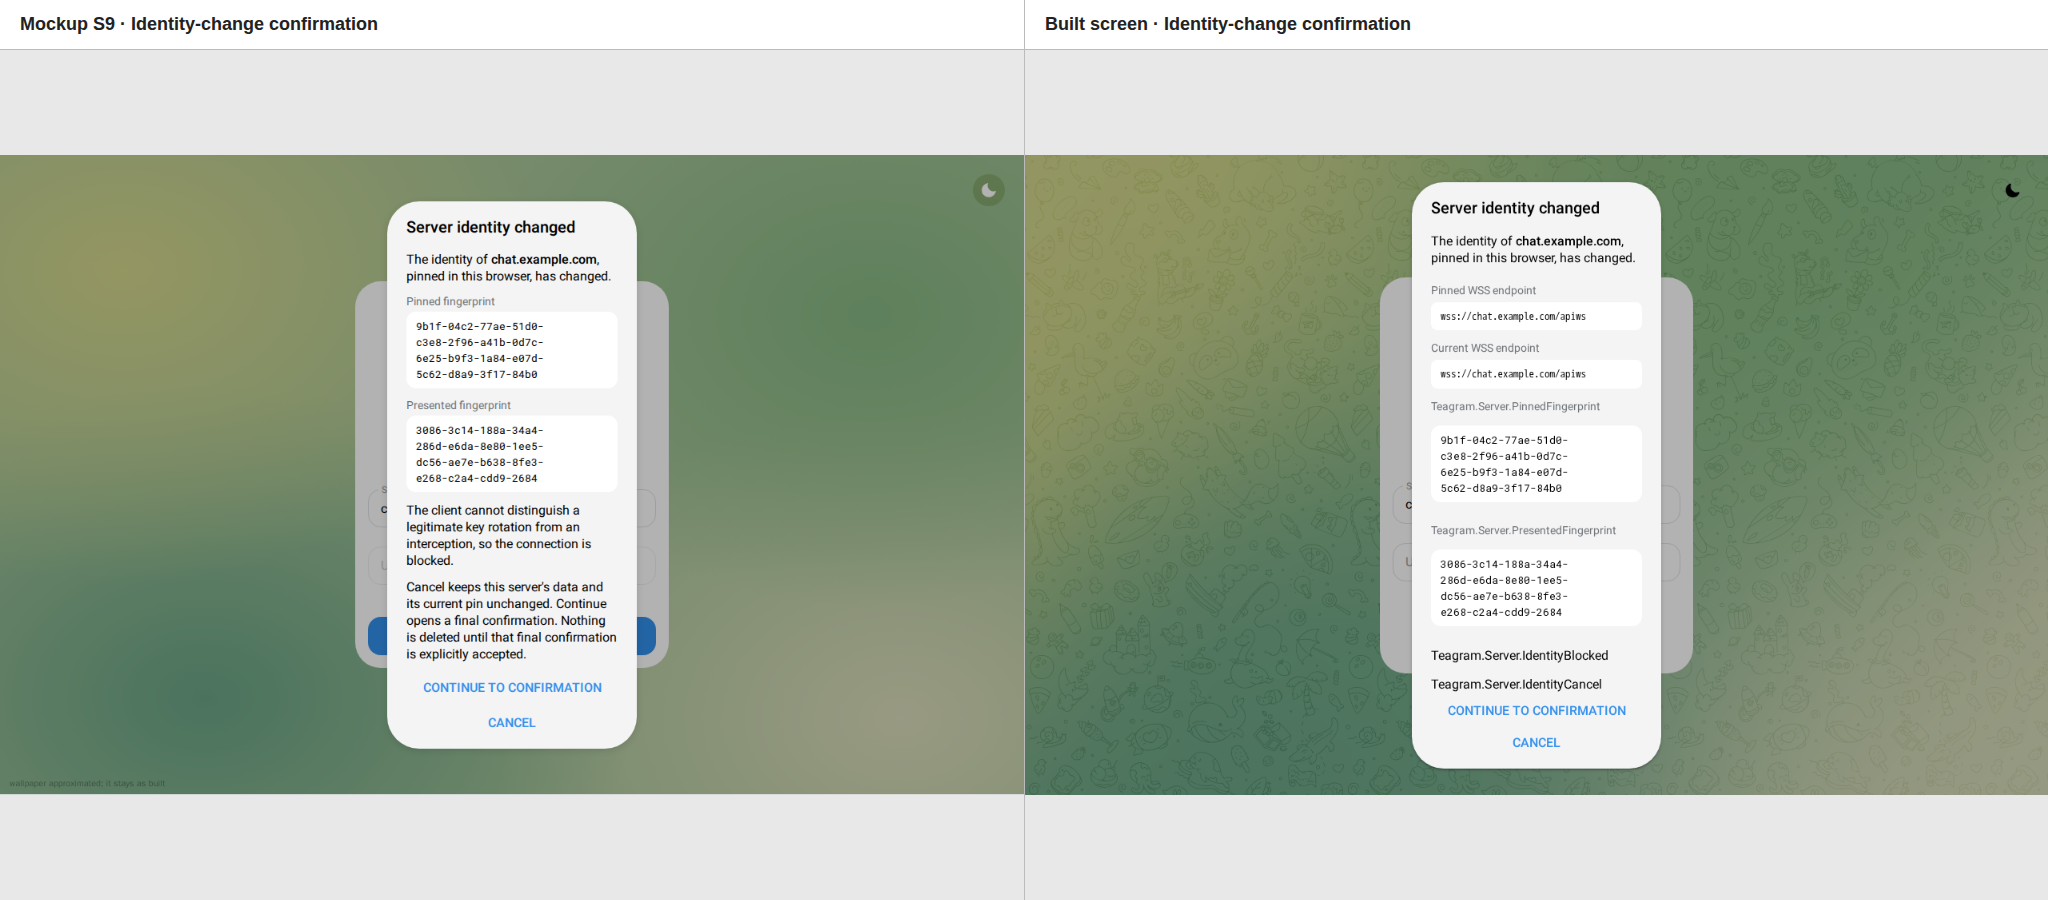
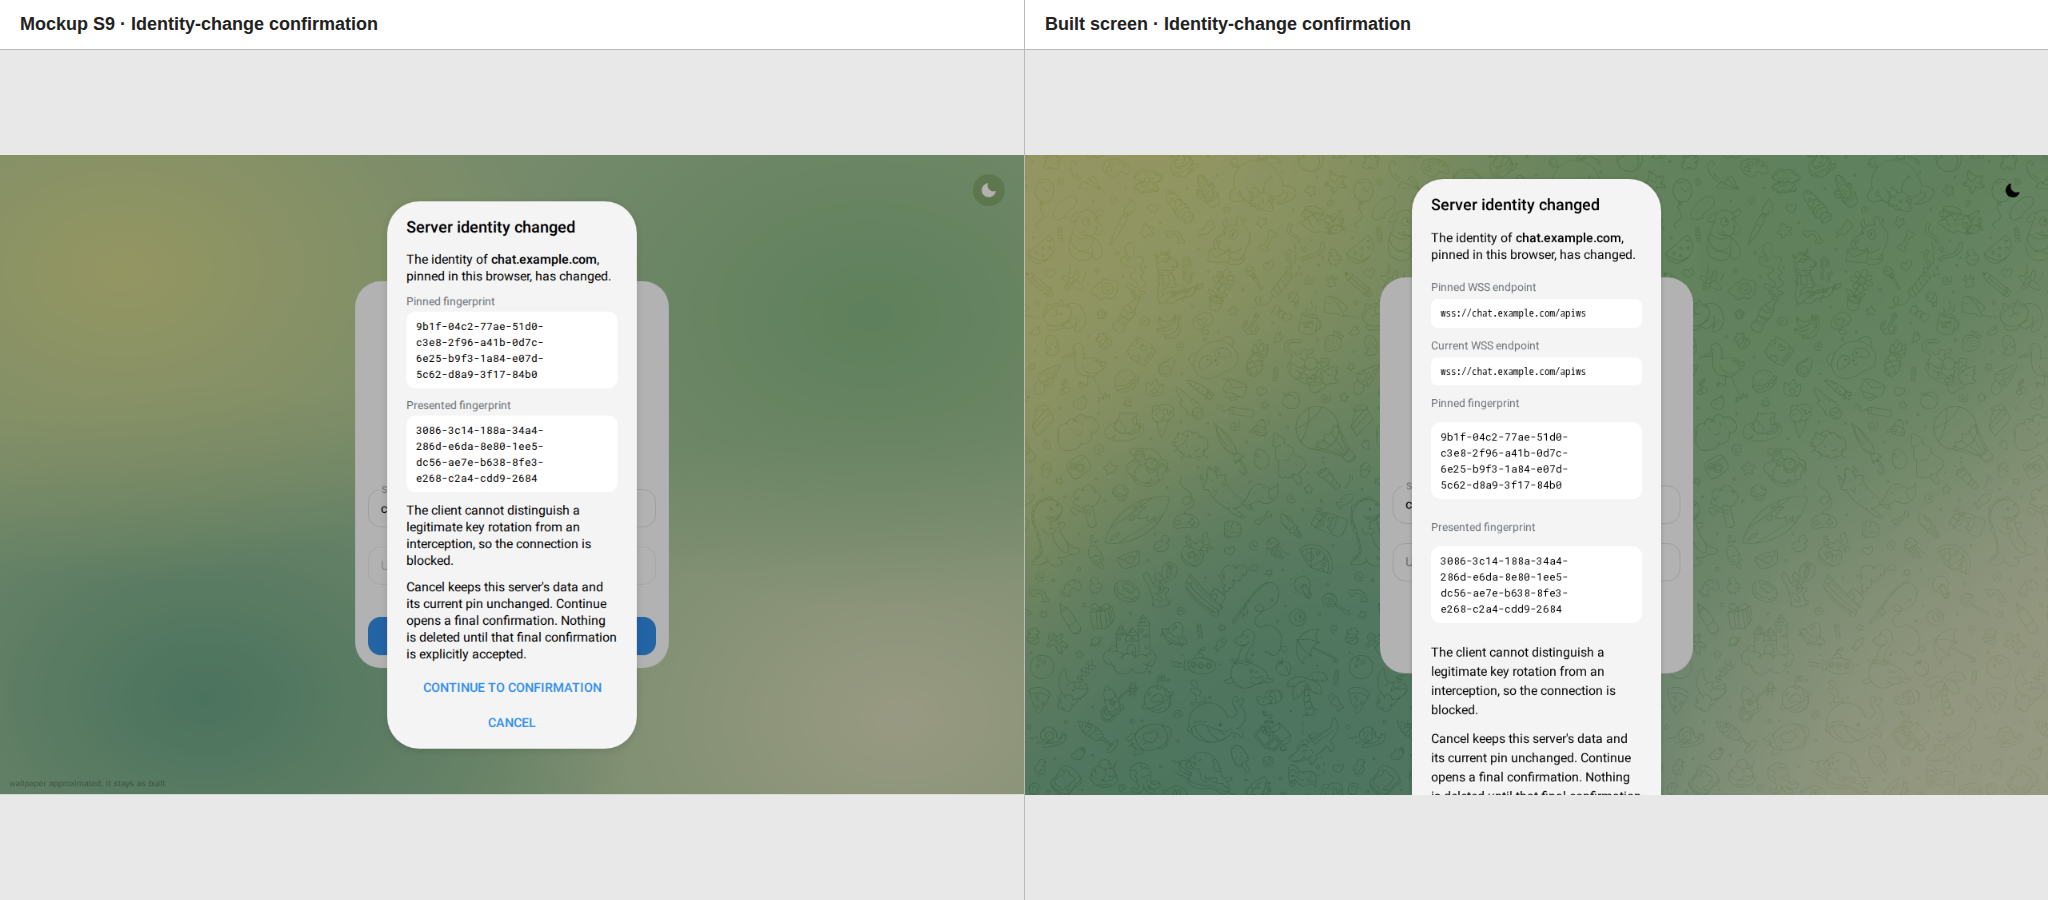
fix(lang-pack): merge local cache fallbacks

Changed region(s): [[0.6875, 0.1867, 0.8125, 0.5911], [0.6875, 0.7156, 0.8125, 0.9022], [0.6875, 0.6222, 0.7812, 0.6844]]

diff --git a/src/tests/langPackCacheFallback.test.ts b/src/tests/langPackCacheFallback.test.ts
@@ -1,0 +1,91 @@
+import type {LangPackDifference, LangPackString} from '@layer';
+import lang from '@/lang';
+import commonStateStorage from '@lib/commonStateStorage';
+import I18n, {handleUpdateLangPack} from '@lib/langPack';
+import rootScope from '@lib/rootScope';
+
+describe('cached language pack fallbacks', () => {
+  it('adds local fallback strings without replacing cached translations', async() => {
+    const cachedTranslation: LangPackString = {
+      _: 'langPackString',
+      key: 'Teagram.Server.IdentityTitle',
+      value: 'Cached identity title'
+    };
+    const cachedPack: LangPackDifference = {
+      _: 'langPackDifference',
+      lang_code: 'en',
+      from_version: 1,
+      version: 1,
+      strings: [cachedTranslation]
+    };
+    const previousStrings = new Map(I18n.strings);
+    const getCachedPack = vi.spyOn(commonStateStorage, 'get').mockResolvedValue(cachedPack as any);
+    const dispatchEvent = vi.spyOn(rootScope, 'dispatchEvent').mockImplementation((() => {}) as any);
+    const dispatchEventSingle = vi.spyOn(rootScope, 'dispatchEventSingle').mockImplementation((() => {}) as any);
+
+    try {
+      await I18n.getCacheLangPackAndApply();
+
+      expect(I18n.format('Teagram.Server.IdentityTitle', true)).toBe('Cached identity title');
+      const fallbackKeys = [
+        'Teagram.Server.ConfirmTitle',
+        'Teagram.Server.ConfirmNote',
+        'Teagram.Server.PinnedFingerprint',
+        'Teagram.Server.PresentedFingerprint',
+        'Teagram.Server.IdentityBlocked',
+        'Teagram.Server.IdentityCancel',
+        'Teagram.Server.IdentityContinue',
+        'Teagram.Server.DeleteTitle',
+        'Teagram.Server.DeleteConfirm'
+      ] as const;
+      fallbackKeys.forEach((key) => expect(I18n.format(key, true)).toBe(lang[key]));
+    } finally {
+      I18n.strings.clear();
+      previousStrings.forEach((value, key) => I18n.strings.set(key, value));
+      getCachedPack.mockRestore();
+      dispatchEvent.mockRestore();
+      dispatchEventSingle.mockRestore();
+    }
+  });
+
+  it('keeps local fallback strings when applying an update to an older cache', async() => {
+    const cachedPack: LangPackDifference = {
+      _: 'langPackDifference',
+      lang_code: 'en',
+      from_version: 1,
+      version: 1,
+      strings: [{
+        _: 'langPackString',
+        key: 'Teagram.Server.IdentityTitle',
+        value: 'Cached identity title'
+      }]
+    };
+    const difference: LangPackDifference = {
+      _: 'langPackDifference',
+      lang_code: 'en',
+      from_version: 1,
+      version: 2,
+      strings: []
+    };
+    const previousStrings = new Map(I18n.strings);
+    const getCachedPack = vi.spyOn(commonStateStorage, 'get').mockResolvedValue(cachedPack as any);
+    const saveUpdatedPack = vi.spyOn(commonStateStorage, 'set').mockResolvedValue(undefined as any);
+    const dispatchEvent = vi.spyOn(rootScope, 'dispatchEvent').mockImplementation((() => {}) as any);
+    const dispatchEventSingle = vi.spyOn(rootScope, 'dispatchEventSingle').mockImplementation((() => {}) as any);
+
+    try {
+      await I18n.loadLocalLangPackAndApply();
+      await handleUpdateLangPack({difference});
+
+      expect(I18n.format('Teagram.Server.IdentityTitle', true)).toBe('Cached identity title');
+      expect(I18n.format('Teagram.Server.PinnedFingerprint', true)).toBe(lang['Teagram.Server.PinnedFingerprint']);
+    } finally {
+      I18n.strings.clear();
+      previousStrings.forEach((value, key) => I18n.strings.set(key, value));
+      getCachedPack.mockRestore();
+      saveUpdatedPack.mockRestore();
+      dispatchEvent.mockRestore();
+      dispatchEventSingle.mockRestore();
+    }
+  });
+});

diff --git a/src/lib/langPack.ts b/src/lib/langPack.ts
@@ -148,6 +148,8 @@ namespace I18n {
       if(!langPack) {
         langPack = await loadLocalLangPack();
         langPack = await saveLangPack(langPack, false);
+      } else {
+        langPack = await mergeLocalFallbackStrings(langPack);
       }
 
       setLangCode(langPack.lang_code);
@@ -740,6 +742,18 @@ namespace I18n {
 export {I18n};
 export default I18n;
 
+async function mergeLocalFallbackStrings(langPack: LangPackDifference): Promise<LangPackDifference> {
+  const localLangPack = await I18n.loadLocalLangPack();
+  const cachedKeys = new Set(langPack.strings.map(({key}) => key));
+  return {
+    ...langPack,
+    strings: [
+      ...localLangPack.strings.filter(({key}) => !cachedKeys.has(key)),
+      ...langPack.strings
+    ]
+  };
+}
+
 const i18n = I18n.i18n;
 export {i18n};
 
@@ -785,7 +799,7 @@ export async function handleUpdateLangPack(update: {difference: LangPackDifferen
   }
 
   // Get current langPack from storage
-  const storedLangPack = await I18n.getCacheLangPack();
+  let storedLangPack = await I18n.getCacheLangPack();
   if(storedLangPack?.lang_code !== difference.lang_code || storedLangPack.lang_code !== I18n.getLastRequestedLangCode()) {
     return;
   }
@@ -794,6 +808,8 @@ export async function handleUpdateLangPack(update: {difference: LangPackDifferen
     handleUpdateLangPackTooLong(difference);
     return;
   }
+
+  storedLangPack = await mergeLocalFallbackStrings(storedLangPack);
 
   // Apply updates to langPack
   if(difference.strings) {
